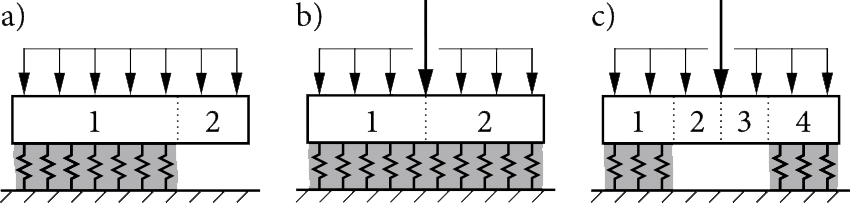
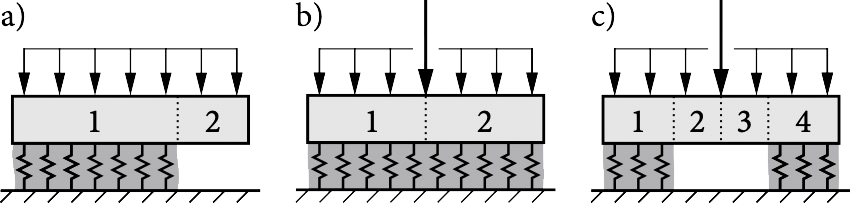
Add release shield to README

diff --git a/README.md b/README.md
@@ -1,16 +1,15 @@
-<!-- PROJECT LOGO -->
-<img style="float: right; margin: 0 20px 0 0;" img src="img/logo.png" alt="Logo" width="80" height="80">
+<!-- LOGO AND TITLE-->
+<p align="right"><img src="img/logo.png" alt="Logo" width="80" height="80"></p>
 
-# **WEAC** &nbsp;·&nbsp; **We**ak Layer **A**nti**c**rack Nucleation Model
+# WEAC &nbsp;·&nbsp; Weak Layer Anticrack Nucleation Model
 
 <!-- PROJECT SHIELDS -->
-<!-- [![Weac][weac-shield]][weac-url]
-[![Release][release-shield]][release-url] -->
+[![Weac][weac-shield]][weac-url]
+[![Release][release-shield]][release-url]
 [![Contributors][contributors-shield]][contributors-url]
 [![Forks][forks-shield]][forks-url]
 [![Stargazers][stars-shield]][stars-url]
-[![Issues][issues-shield]][issues-url]
-
+[![Issues][issues-shield]][issues-url] \
 Implementation of closed-form analytical models for the analysis for dry-snow slab avalanche release.
 
 [View Demo](https://github.com/2phi/weac) · 
@@ -18,7 +17,7 @@ Implementation of closed-form analytical models for the analysis for dry-snow sl
 [Request Feature](https://github.com/2phi/weac)
 
 <!-- TABLE OF CONTENTS -->
-## Table of Contents
+### Table of Contents
 1. [About the project](#about-the-project)
 2. [Installation](#installation)
 3. [Usage](#usage)
@@ -31,7 +30,7 @@ Implementation of closed-form analytical models for the analysis for dry-snow sl
 
 WEAC implements closed-form analytical models for the [mechanical analysis of dry-snow slabs on compliant weak layers](https://doi.org/10.5194/tc-14-115-2020), the [prediction of anticrack onset](https://doi.org/10.5194/tc-14-131-2020), and, in particular, allwos for stratified snow covers. The model covers propagation saw tests (a), and uncracked (b) or cracked (c) skier-loaded buried weak layers.
 
-<img src="img/bc.jpg" alt="Boundary conditions" width="500"/>
+<img src="img/bc.png" alt="Boundary conditions" width="500"/>
 
 Please refer to the companion papers for model derivations, illustrations, dimensions, material properties, and kinematics:
 
@@ -104,7 +103,7 @@ E-mail: mail@2phi.de · Web: https://2phi.de · Project Link: [https://github.co
 [stars-url]: https://github.com/2phi/weac/stargazers
 [issues-shield]: https://img.shields.io/github/issues/2phi/weac.svg?style=flat&logo=github
 [issues-url]: https://github.com/2phi/weac/issues
[1 lines of base64/hex data omitted]
+[release-shield]: https://img.shields.io/github/v/release/2phi/weac.svg?display_name=tag
 [release-url]: https://github.com/2phi/weac/
[2 lines of base64/hex data omitted]
 [weac-url]: https://github.com/2phi/weac/
